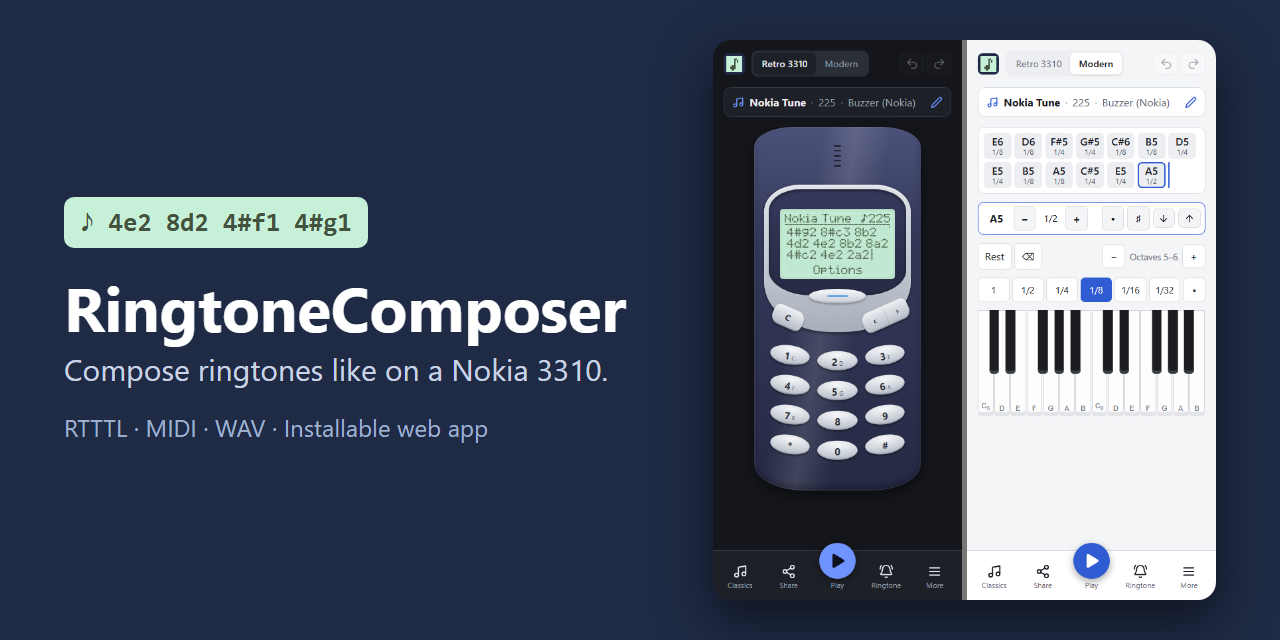
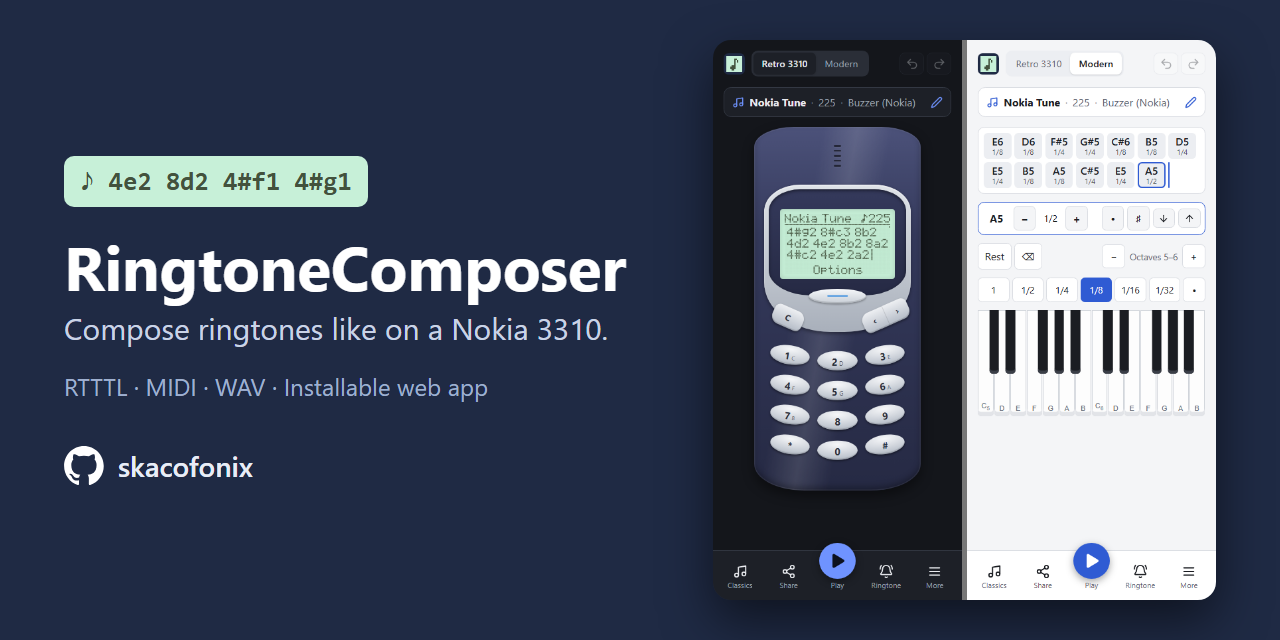
Add haptic feedback on iPhone, GitHub handle on the social preview
Safari on iPhone has no Vibration API: on touch devices with switch
inputs (iOS 18+), a hidden <input type="checkbox" switch> is clicked to
get the system haptic tick, twice for a long press. The social preview
image now shows the GitHub logo and handle.

Changed region(s): [[0.0312, 0.2188, 0.5, 0.625], [0.0312, 0.6562, 0.375, 0.75]]

diff --git a/src/ui/shared/haptics.svelte.ts b/src/ui/shared/haptics.svelte.ts
@@ -1,7 +1,13 @@
 /**
- * Haptic feedback on key presses, through the Vibration API. Supported by
- * Android browsers; not by Safari on iPhone, where the setting is shown as
- * unavailable. On by default, the choice is remembered on this device.
+ * Haptic feedback on key presses.
+ *
+ * - Android browsers: the Vibration API (`navigator.vibrate`).
+ * - iPhone (iOS 18+): Safari has no Vibration API, but it plays a system
+ *   haptic tick when an `<input type="checkbox" switch>` is toggled. Clicking
+ *   a hidden one gives the tick (unofficial technique, as used by the
+ *   `ios-haptics` library; it may stop working in a future iOS).
+ *
+ * On by default, the choice is remembered on this device.
  */
 import { readSetting, writeSetting } from './storage';
 
@@ -9,12 +15,42 @@ import { readSetting, writeSetting } from './storage';
 export const PATTERNS = { tap: 8, long: 30 } as const;
 export type HapticKind = keyof typeof PATTERNS;
 
+/** On iPhone, a long press is two ticks this far apart. */
+const DOUBLE_TICK_MS = 70;
+
 const SETTING = 'haptics';
 
+type Method = 'vibrate' | 'switch' | null;
+
+function detectMethod(): Method {
+  if (typeof navigator === 'undefined') return null;
+  if (typeof navigator.vibrate === 'function') return 'vibrate';
+  // Safari 17.4+ knows the switch attribute; only touch devices have haptics.
+  const switchInputs =
+    typeof HTMLInputElement !== 'undefined' &&
+    'switch' in HTMLInputElement.prototype;
+  return switchInputs && navigator.maxTouchPoints > 0 ? 'switch' : null;
+}
+
+/** One system haptic tick through a hidden, throwaway switch input. */
+function switchTick(): void {
+  const label = document.createElement('label');
+  label.ariaHidden = 'true';
+  label.style.display = 'none';
+  const input = document.createElement('input');
+  input.type = 'checkbox';
+  input.setAttribute('switch', '');
+  label.append(input);
+  document.head.append(label);
+  label.click();
+  label.remove();
+}
+
 class Haptics {
-  /** Whether this browser can vibrate at all. */
-  readonly supported =
-    typeof navigator !== 'undefined' && typeof navigator.vibrate === 'function';
+  readonly #method = detectMethod();
+
+  /** Whether this device can give haptic feedback at all. */
+  readonly supported = this.#method !== null;
 
   enabled = $state(readSetting(SETTING) !== 'off');
 
@@ -24,11 +60,16 @@ class Haptics {
     if (enabled) this.play('tap');
   }
 
-  /** Vibrates if supported and enabled. Must run inside a user gesture. */
+  /** Gives feedback if supported and enabled. Call it inside a user gesture. */
   play(kind: HapticKind): void {
-    if (!this.supported || !this.enabled) return;
+    if (!this.enabled) return;
     try {
-      navigator.vibrate(PATTERNS[kind]);
+      if (this.#method === 'vibrate') {
+        navigator.vibrate(PATTERNS[kind]);
+      } else if (this.#method === 'switch') {
+        switchTick();
+        if (kind === 'long') setTimeout(switchTick, DOUBLE_TICK_MS);
+      }
     } catch {
       // Some browsers throw when vibration is blocked: ignore.
     }

diff --git a/src/ui/shared/haptics.test.ts b/src/ui/shared/haptics.test.ts
@@ -48,7 +48,7 @@ describe('haptics', () => {
     expect(vibrate).toHaveBeenCalledTimes(1);
   });
 
-  it('does nothing where the Vibration API is missing (iPhone)', async () => {
+  it('does nothing without any haptic method', async () => {
     const { haptics } = await load();
     expect(haptics.supported).toBe(false);
     expect(() => haptics.play('tap')).not.toThrow();
@@ -59,5 +59,59 @@ describe('haptics', () => {
       throw new Error('blocked');
     });
     expect(() => haptics.play('long')).not.toThrow();
+  });
+});
+
+describe('haptics on iPhone (switch input technique)', () => {
+  afterEach(() => {
+    vi.unstubAllGlobals();
+    vi.useRealTimers();
+  });
+
+  /** Fake DOM: counts the clicks on the hidden switch labels. */
+  async function loadIphone(maxTouchPoints = 5) {
+    const clicks: string[] = [];
+    class FakeInput {
+      type = '';
+      attributes = new Map<string, string>();
+      setAttribute(name: string, value: string) {
+        this.attributes.set(name, value);
+      }
+    }
+    Object.defineProperty(FakeInput.prototype, 'switch', { value: false });
+    vi.stubGlobal('HTMLInputElement', FakeInput);
+    vi.stubGlobal('document', {
+      createElement: (tag: string) =>
+        tag === 'input'
+          ? new FakeInput()
+          : {
+              style: {},
+              append: () => undefined,
+              click: () => clicks.push('tick'),
+              remove: () => undefined,
+            },
+      head: { append: () => undefined },
+    });
+    vi.stubGlobal('localStorage', { getItem: () => null, setItem: () => {} });
+    vi.stubGlobal('navigator', { maxTouchPoints });
+    vi.resetModules();
+    const { haptics } = await import('./haptics.svelte');
+    return { haptics, clicks };
+  }
+
+  it('ticks once on a tap, twice on a long press', async () => {
+    vi.useFakeTimers();
+    const { haptics, clicks } = await loadIphone();
+    expect(haptics.supported).toBe(true);
+    haptics.play('tap');
+    expect(clicks).toHaveLength(1);
+    haptics.play('long');
+    vi.runAllTimers();
+    expect(clicks).toHaveLength(3);
+  });
+
+  it('is unavailable without a touch screen (Safari on a Mac)', async () => {
+    const { haptics } = await loadIphone(0);
+    expect(haptics.supported).toBe(false);
   });
 });

diff --git a/AGENTS.md b/AGENTS.md
@@ -120,7 +120,7 @@ The project follows [Semantic Versioning](https://semver.org/); the version in `
 - **iOS audio:** the `AudioContext` must be created or resumed (`resume()`) inside a user gesture (tap), otherwise there is no sound. The iPhone silent switch can mute web audio (`navigator.audioSession` is set to `playback` to avoid it).
 - **Setting a ringtone:** impossible from the web. The app exports a WAV file and guides the user (Android settings, GarageBand on iPhone). On iOS a ringtone lasts at most about 30 s.
 - **Web Audio envelopes:** always anchor each stage with an explicit `setValueAtTime`. A `setTargetAtTime` right after a `linearRampToValueAtTime` diverges on some engines (tested: the level blows up). See `audio/synth.ts`.
-- **Haptics:** `ui/shared/haptics.svelte.ts` wraps `navigator.vibrate` (Android only: Safari on iPhone has no Vibration API, so the setting shows as unavailable there). Vibrate on `pointerdown`, inside the user gesture.
+- **Haptics:** `ui/shared/haptics.svelte.ts` uses `navigator.vibrate` on Android and, on iPhone (no Vibration API), the system tick of a hidden `<input type="checkbox" switch>` (iOS 18+, unofficial). Elsewhere the setting shows as unavailable. Trigger it on `pointerdown`, inside the user gesture.
 - **Testing audio:** `OfflineAudioContext` does not exist in Node, and headless Edge renders it poorly. To check a rendering, use `node-web-audio-api` in a temporary folder (outside the project dependencies) and import `src/audio/render.ts`.
 - **Polyphony:** out of scope for v1, RTTTL being monophonic by nature. Possible direction: several RTTTL voices played together (like the polyphonic ringtones of later Nokia phones), without breaking the mono model.
 

diff --git a/README.fr.md b/README.fr.md
@@ -30,7 +30,7 @@ Une application web installable (PWA) pour composer, écouter, partager et expor
 - Export audio pour en faire sa sonnerie (Android et iPhone), et export MIDI
 - Fonctionnement hors ligne
 - Thèmes clair et sombre (suit le système par défaut)
-- Vibration à l'appui des touches (Android), désactivable
+- Retour haptique à l'appui des touches (Android, iPhone sous iOS 18+), désactivable
 - En français et en anglais (langue du navigateur par défaut, modifiable)
 
 ## Utiliser une sonnerie

diff --git a/README.md b/README.md
@@ -30,7 +30,7 @@ An installable web app (PWA) to compose, play, share and export ringtones in the
 - Audio export to use as a ringtone (Android and iPhone), and MIDI export
 - Works offline
 - Light and dark themes (follows the system by default)
-- Vibration on key presses (Android), can be turned off
+- Haptic feedback on key presses (Android, iPhone with iOS 18+), can be turned off
 - In English and French (browser language by default, can be changed)
 
 ## Use it as a ringtone

diff --git a/CHANGELOG.md b/CHANGELOG.md
@@ -6,6 +6,10 @@ The format follows [Keep a Changelog](https://keepachangelog.com/en/1.1.0/), and
 
 ## [Unreleased]
 
+### Added
+
+- **Haptic feedback on iPhone** (iOS 18 and later), through the system tick of a hidden switch input, since Safari has no Vibration API. Unofficial technique: it may stop working in a future iOS.
+
 ## [1.1.0] - 2026-10-11
 
 ### Added
